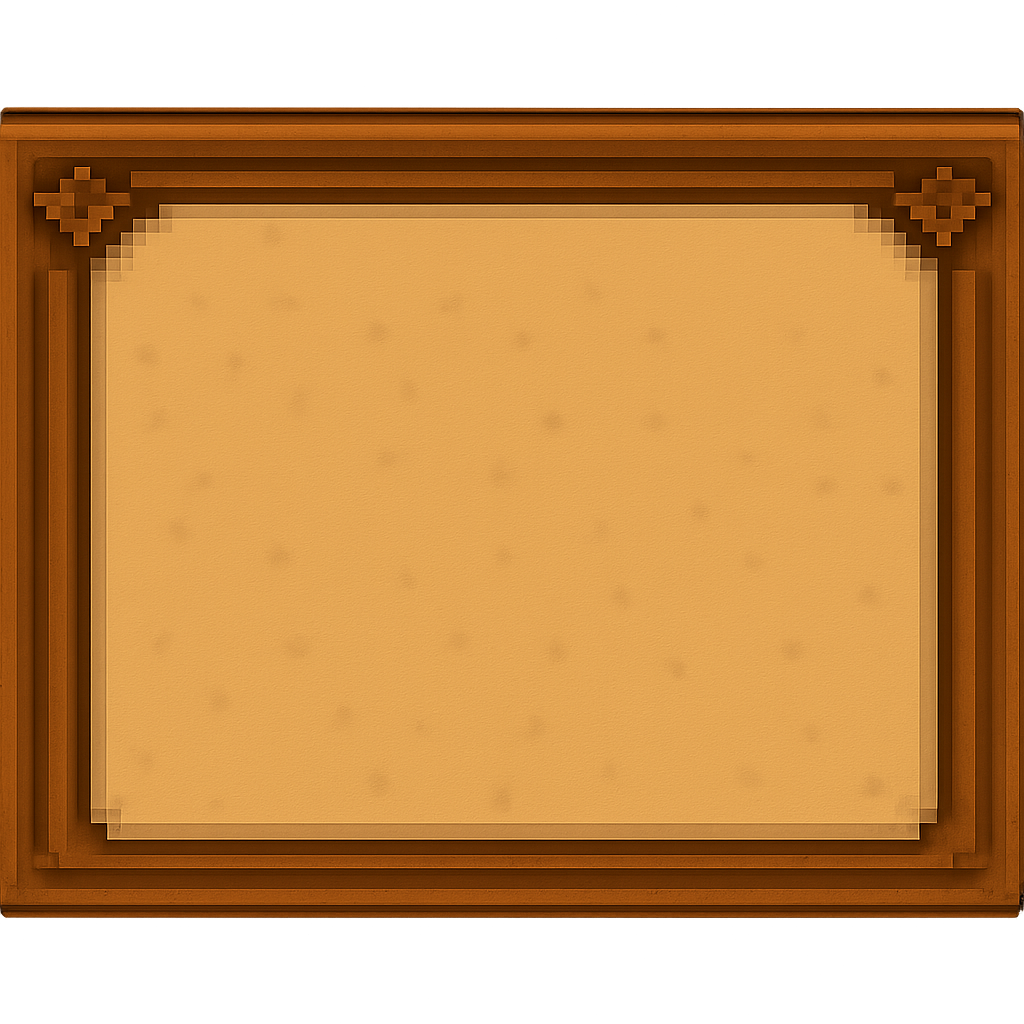
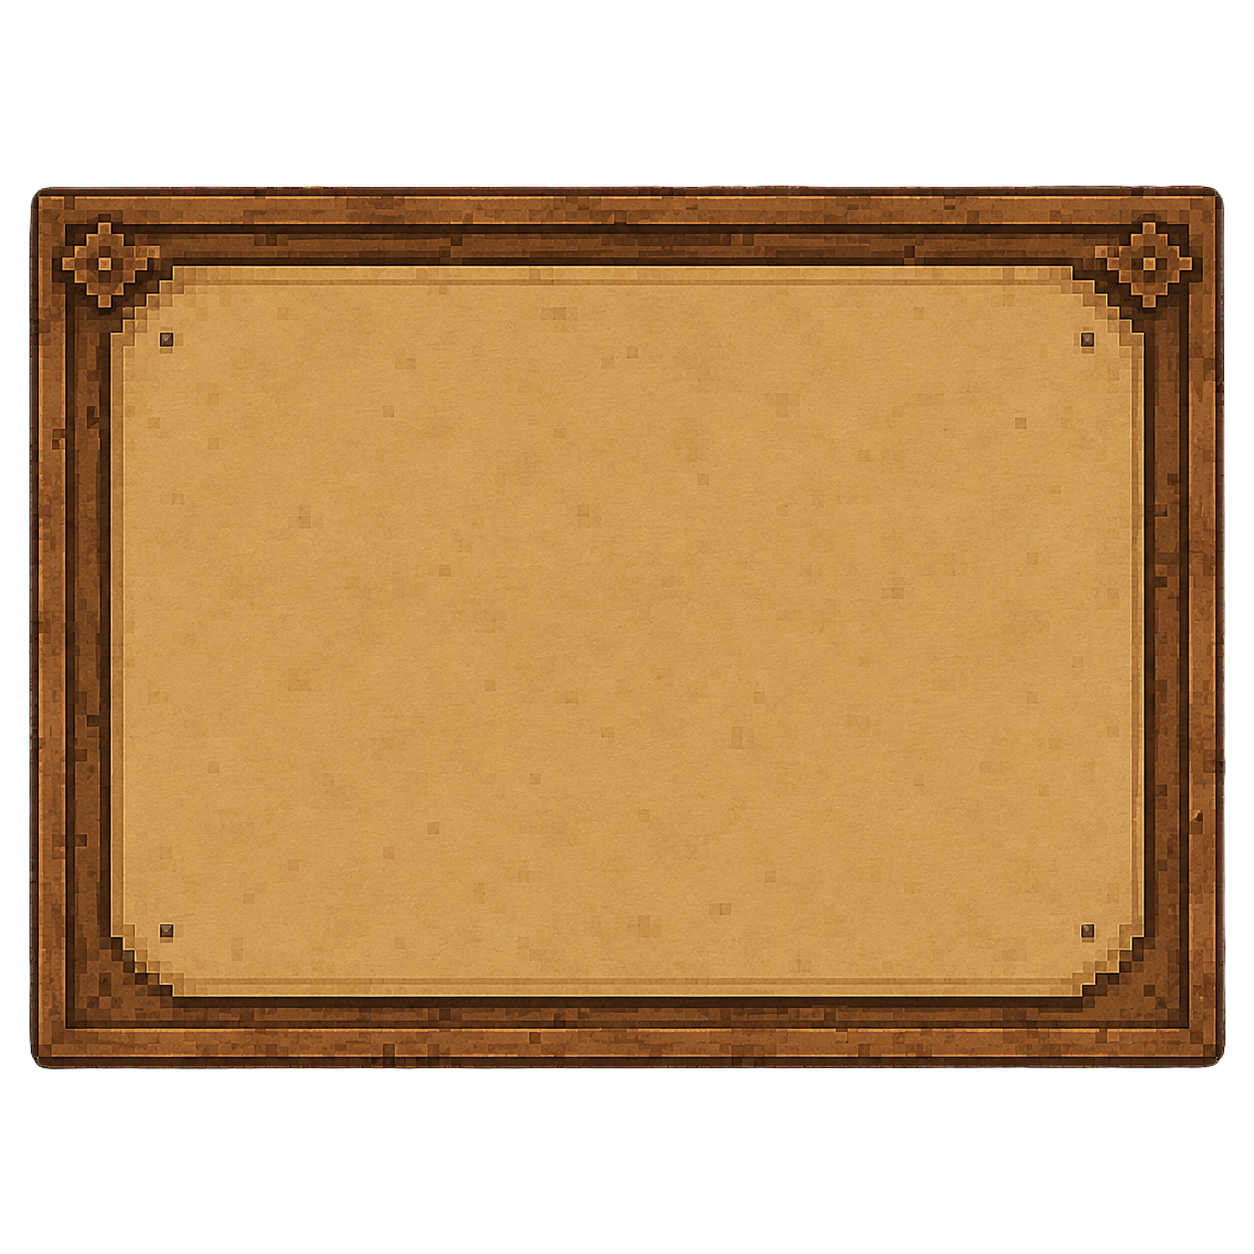
redesigned about us

diff --git a/pixel-clothing/src/components/Popups/AboutPopup.css b/pixel-clothing/src/components/Popups/AboutPopup.css
@@ -30,46 +30,55 @@
 .about-paper {
   position: relative;
   width: 90vw;
-  max-width: 800px; 
-  height: 85vh;
-  max-height: 750px;
-  background: url('/assets/images/comm.png') center/100% 100% no-repeat;
+  max-width: 550px;
+  height: 88vh; 
+  background: url('/assets/images/aboutusscroll.png') center/100% 100% no-repeat;
   display: flex;
   flex-direction: column;
   align-items: center;
   justify-content: flex-start;
-  transform-origin: center;
-  animation: popIn 0.6s cubic-bezier(0.175, 0.885, 0.32, 1.275) forwards;
+  transform-origin: top center;
+  animation: unrollScroll 0.7s cubic-bezier(0.175, 0.885, 0.32, 1.275) forwards;
 }
 
 .about-popup.closing .about-paper {
-  animation: popOut 0.6s cubic-bezier(0.175, 0.885, 0.32, 1.275) forwards;
+  animation: rollUpScroll 0.7s cubic-bezier(0.175, 0.885, 0.32, 1.275) forwards;
 }
 
-@keyframes popIn {
-  0% { transform: scale(0.8); opacity: 0; }
-  100% { transform: scale(1); opacity: 1; }
+@keyframes unrollScroll {
+  0% { transform: scaleY(0) scaleX(0.5); opacity: 0; }
+  60% { transform: scaleY(1.05) scaleX(1); opacity: 1; }
+  100% { transform: scaleY(1) scaleX(1); opacity: 1; }
 }
 
-@keyframes popOut {
-  0% { transform: scale(1); opacity: 1; }
-  100% { transform: scale(0.8); opacity: 0; }
+@keyframes rollUpScroll {
+  0% { transform: scaleY(1) scaleX(1); opacity: 1; }
+  40% { transform: scaleY(1.05) scaleX(1); opacity: 1; }
+  100% { transform: scaleY(0) scaleX(0.5); opacity: 0; }
 }
 
 .about-content {
-  width: 80%;
-  height: calc(100% - 160px);
-  margin-top: 80px;
+  width: 75%; 
+  height: calc(100% - 290px);
+  margin-top: 260px; 
+  padding-bottom: 0;
   display: flex;
   flex-direction: column;
+  justify-content: flex-start;
   align-items: center;
   opacity: 0;
-  animation: fadeInText 0.4s ease forwards;
-  animation-delay: 0.4s;
+  animation: fadeInText 0.5s ease forwards;
+  animation-delay: 0.5s; 
+  overflow-y: auto;
+  scrollbar-width: none; 
 }
 
 .about-popup.closing .about-content {
   animation: fadeOutText 0.3s ease forwards;
+}
+
+.about-content::-webkit-scrollbar {
+  display: none; 
 }
 
 @keyframes fadeInText {
@@ -83,17 +92,16 @@
 }
 
 .about-title-img {
-  width: 280px;
+  width: 240px;
   max-width: 100%;
   margin-bottom: 20px;
-  margin-top: -55px;
   flex-shrink: 0;
   filter: drop-shadow(2px 2px 0px rgba(0,0,0,0.3));
 }
 
 .about-text-container {
-  flex: 1;
   width: 100%;
+  margin-top: 115px;
   overflow-y: auto;
   scrollbar-width: none; 
   padding: 0 15px;
@@ -109,16 +117,16 @@
 
 .welcome-text {
   font-family: "Jersey 10", sans-serif;
-  font-size: 26px;
+  font-size: 24px;
   color: #3a1e05;
-  line-height: 1.4;
+  line-height: 1.3;
   margin: 0;
   text-shadow: 1px 1px 0px rgba(255, 255, 255, 0.5);
 }
 
 .about-return-btn {
-  margin-top: auto;
-  margin-bottom: 95px;
+  margin-top: 30px;
+  margin-bottom: 0;
   font-family: 'Depixel', monospace;
   font-size: 18px;
   color: #fff;
@@ -142,39 +150,21 @@
   box-shadow: 1px 1px 0 #000;
 }
 
-@media (max-width: 768px) {
-  .about-paper {
-    width: 95vw;
-    height: 85vh;
-  }
-  .about-content {
-    width: 85%;
-    height: calc(100% - 120px);
-    margin-top: 60px;
-  }
-  .about-title-img {
-    width: 220px;
-    margin-bottom: 15px;
-  }
-  .welcome-text {
-    font-size: 22px;
-  }
-}
-
 @media (max-width: 600px) {
   .about-paper {
     width: 100vw;
-    height: 100vh;
+    height: 80vh;
+    max-height: 80vh !important;
     max-width: 100vw;
-    max-height: 100vh;
     border-radius: 0;
     background-size: 100% 100%;
   }
   
   .about-content {
-    margin-top: 100px;
-    height: calc(100% - 150px);
+    margin-top: 170px;
+    height: calc(100% - 210px);
     width: 85%;
+    padding: 0 10 0 10;
   }
 
   .about-title-img {
@@ -188,14 +178,14 @@
   .about-return-btn {
     font-size: 16px;
     padding: 10px 20px;
-    margin-bottom: 20px;
+    margin-bottom: 0;
   }
 }
 
 @media (max-width: 400px) {
   .about-content {
-    margin-top: 80px;
-    height: calc(100% - 120px);
+    margin-top: 140px;
+    height: calc(100% - 170px);
   }
   .about-title-img {
     width: 160px;

diff --git a/pixel-clothing/src/components/Popups/AboutPopup.jsx b/pixel-clothing/src/components/Popups/AboutPopup.jsx
@@ -22,7 +22,6 @@ export default function AboutPopup({ onClose }) {
     <div className={`about-popup ${isClosing ? 'closing' : ''}`} onClick={handleOverlayClick}>
       <div className="about-paper">
         <div className="about-content">
-          <img className="about-title-img" src="/assets/images/aboutus.png" alt="About Us" />
           
           <div className="about-text-container">
             <p className="welcome-text">